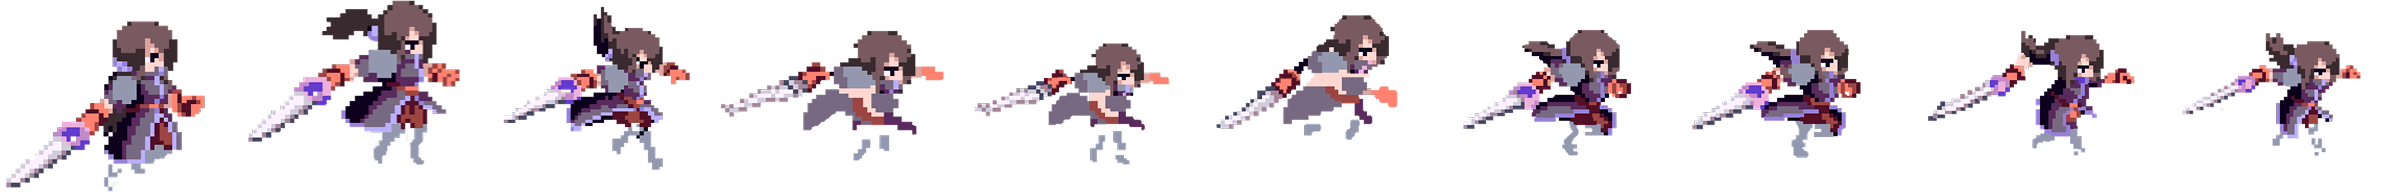
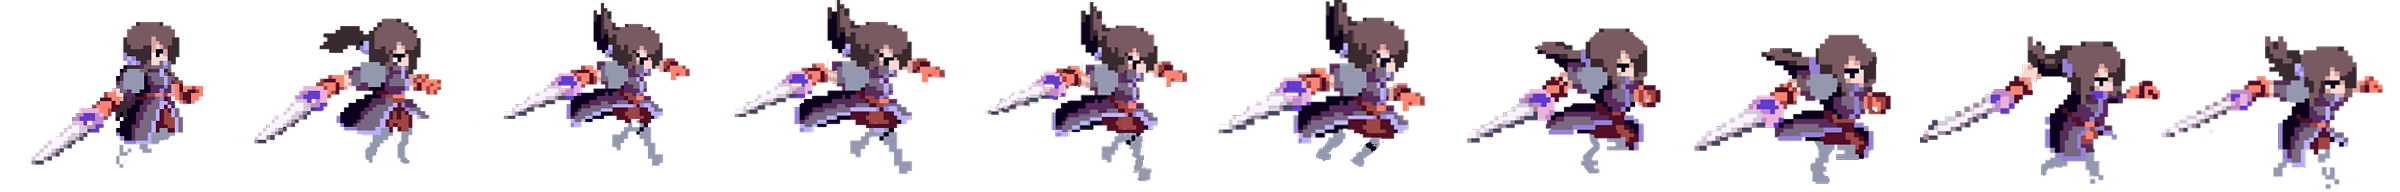
Prota piscando

Changed region(s): [[0.0, 0.0, 1.0, 0.9688], [0.375, 0.8438, 0.4062, 0.9062]]

diff --git a/player.py b/player.py
@@ -17,6 +17,8 @@ DASH = 'dash'
 ATTACK1 = 'attack1'
 ATTACK2 = 'attack2'
 ATTACK3 = 'attack3'
+DANOWALK = "Levando dano enquanto anda"
+DANOIDLE = "Levando dano enquanto está parada"
 INIMIGOIDLE = "enemyidle" # Definido mas não usado na classe Jogador?
 SPRITES = {
     # INIMIGOIDLE:{"file": "img/mapa1/inimigo1/inimigo1_andando.png", "frames": 3, "width":445 , "height": 394}, # Mover para inimigo.py se for do inimigo
@@ -28,6 +30,8 @@ SPRITES = {
     ATTACK1: {"file": "img/prota/attack1.png", "frames": 6, "width": 108, "height": 81},
     ATTACK2: {"file": "img/prota/attack2.png", "frames": 7, "width": 108, "height": 126},
     ATTACK3: {"file": "img/prota/attack3.png", "frames": 8, "width": 108, "height": 90},   
+    DANOWALK: {"file": "img/prota/danoandando.png", "frames": 10, "width": 198, "height": 144},
+    DANOIDLE: {"file": "img/prota/danoparada.png", "frames": 6, "width": 176, "height": 148},
 }
 
 EFFECTS = {
@@ -243,6 +247,17 @@ class Jogador(pygame.sprite.Sprite):
 
     def receber_dano(self, dano):
         tempo_atual = pygame.time.get_ticks()
+
+        # Troca para animação dela levando dano enquanto esta parada e enquanto ela esta andando
+        if self.state == IDLE:
+            self.state = DANOIDLE
+            self.load_sprites()
+            self.frame_index = 0
+        elif self.state == WALK:
+            self.state = DANOWALK
+            self.load_sprites()
+            self.frame_index = 0
+
         # Simplificar condição: só recebe dano se não estiver invulnerável
         if not self.invulneravel:
             self.vida_atual -= dano
@@ -456,7 +471,7 @@ class Jogador(pygame.sprite.Sprite):
 
 
             # Atualizar Estado (se mudou e não está atacando/dando dash)
-            if current_state != self.state and not self.is_attacking and not self.dash_ativo:
+            if current_state != self.state and not self.is_attacking and not self.dash_ativo and not (self.state == DANOIDLE or self.state == DANOWALK):
                  # Adicionar verificação para estado de pulo/queda aqui se necessário
                 if not self.no_chao:
                     # Se está no ar, manter o estado atual (pulo/queda), não trocar para outro
@@ -530,6 +545,11 @@ class Jogador(pygame.sprite.Sprite):
         # Atualizar estado de invulnerabilidade
         if self.invulneravel and tempo_atual - self.ultimo_dano > self.tempo_invulneravel:
             self.invulneravel = False
+            # Se estava mostrando animação de dano, voltar para idle ou walk
+            if self.state == DANOIDLE or self.state == DANOWALK:
+                self.state = IDLE
+                self.load_sprites()
+
             # print("Jogador não está mais invulnerável")
 
 
